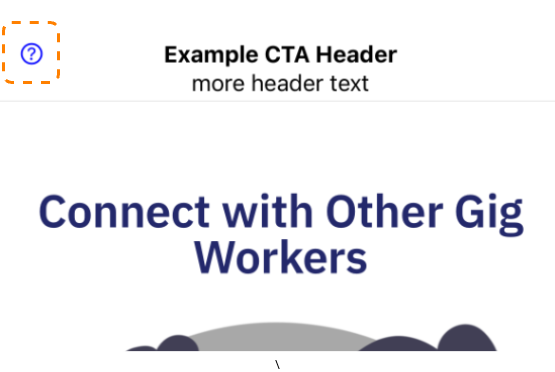
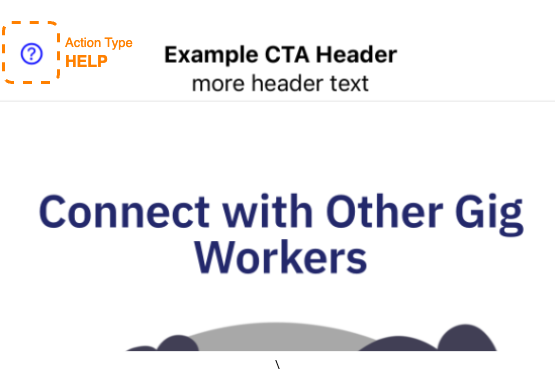
WIP

diff --git a/docs/campaigns/call_to_action/README.md b/docs/campaigns/call_to_action/README.md
@@ -40,16 +40,15 @@ defmodule DriversSeatCoop.Marketing.Campaigns.Examples do
 end
 ```
 
-Hosted assets (like html, css, images, fonts, js) should be placed within the `/priv/static/campaigns` folder and managed as part of source control.
+Hosted assets (like html, css, images, fonts, js) are placed within the `/priv/static/campaigns` folder and managed as part of source control.
 
-* **Asset names are case sensitive** and need to match the filename of the asset.  `example_cta/example.html` is NOT the same as `example_cta/Example.html` OR `example_CTA/example.html`
+* **Asset and folder names are case sensitive** and need to match the filename of the asset.  `example_cta/example.html` is NOT the same as `example_cta/Example.html` OR `example_CTA/example.html`
 <br/>
 
 * **Consider having a common campaign.css file** and add relative references to it from within the html files for each campaign.  That will make style changes a bit easier.
 <br/>
 
-* **Consider having a folder Structure Convention** such as `/priv/static/campaigns/<<CAMPAIGN_ID>>` for the assets for each campaign.  The CTA defined above would follow this folder structure.
-<br/>
+* **Consider having a folder structure convention** such as `/priv/static/campaigns/<<CAMPAIGN_ID>>/` for the assets for each campaign.  The CTA defined above would follow this folder structure.
 
   ```text
   .
@@ -58,19 +57,22 @@ Hosted assets (like html, css, images, fonts, js) should be placed within the `/
           └── campaigns
               ├── campaigns.css
               └── example_cta
-                  ├── example_cta.html
-                  ├── example_cta.css
-                  ├── example_cta_image1.png
-                  └── example_cta_image2.png
+                  ├── example.html
+                  ├── example.css
+                  ├── example_image1.png
+                  └── example_image2.png
   ```
 
-* **Browsing to campaign assets directly** Self-hosted assets are browseable.  During development for the example above, `http://localhost:4000/web/campaigns/example_cta.html` should present the content of the CTA.
+* **Browsing to campaign assets directly** Self-hosted assets are browseable.  During development for the example above, `http://localhost:4000/web/campaigns/example_cta/example.html` should present the content of the CTA.
 <br/>
+
 * **The [endpoint.ex](/lib/dsc_web/endpoint.ex) file** is respoinsible for mapping inbound url requests to static files.
 
 ### Externally Hosted Content
 
-CTA content may also be hosted elsewhere, which may be helpful if it is managed outside of this app, or if it is large, making it difficult to manage in source control.  To access externally hosted content, use fully qualified URLs for the resources.
+CTA content may also be hosted elsewhere, which may be helpful when the content is managed outside of the app, or if the assets are large and  difficult to manage in source control.  
+
+To access externally hosted content, use fully qualified URLs for the resources.
 
 ```elixir
 defmodule DriversSeatCoop.Marketing.Campaigns.Examples do
@@ -106,6 +108,9 @@ end
 
 ## Adding Header and Footer Text (Optional)
 
+| ![header](./images/header.png)  | ![header](./images/footer.png)    |
+|--                               |--                                 |
+
 ### Single Line
 
 ```elixir
@@ -129,6 +134,7 @@ cta
 ```
 
 ### Dynamic Content
+
 A function accepting a [CampaignState](/lib/dsc/marketing/campaign_state.ex) struct may also be used.  CampaignState provides access to information about the calling user, their device, and the calling user's interaction with this campaign.
 
 ```elixir
@@ -144,58 +150,93 @@ end)
 end)
 ```
 
-## Adding Campaign Actions
+## Adding Actions
 
-Campaign Actions define how a user will interact with the campaign.
+Campaign Actions define how a user can interact with the campaign.
 
-### Toolbar Help
+### Header Actions
 
-| ![close](./images/default_help.png)  |
-|----                                           |
+#### Help button
 
-
-### Toolbar Dismiss or Close
-There are two options for closing a campaign.
-| ![close](./images/default_close_dismiss.png)  |
-|----                                           |
-
-
-#### Close
-Closing the CTA closes the screen in the UI, but the campaign is still available for the user at a later date.  Closing a CTA is often used when the user navigates to the CTA, but it does not interrupt their workflow.  For example, a user may navigate to a CTA from a preview card on their landing page.  They would go back to their landing page by closing the CTA.
-
-
-#### Dismiss
-Dismissing the CTA is the equivalent to deleting it for the user, preventing them from seeing the campaign again. Dismissing a CTA is often used for interrupt campaigns which interrupt the user's workflow.
-
-
-* **Dismiss** - Prevents the campaign from being visible to the user again.
-* **Close** - Prevents the campaign from being visible to the user again.
+| ![help button](./images/default_help.png)     | ![help](./images/help.png)    |
+|----                                           |---                            |
 
 ```elixir
-    cta
-    |> CallToAction.with_action(CampaignAction.default_close_tool())
-
-    cta
-    |> CallToAction.with_action(CampaignAction.default_dismiss_tool())
-
-    cta
-    |> CallToAction.with_action(
-      CampaignAction.default_help_tool("Pre populate the help message with this text")
-    )
-
+CallToAction.with_action(cta,
+  CampaignAction.default_help_tool("Pre populate the help message with this text")
+)
 ```
 
+#### Close button
 
+| ![close](./images/default_close_dismiss_postpone.png)   |
+|----                                                     |
 
-### Actions Buttons
-### Action Links
+A CTA may be closed in the following ways
+
+##### Close
+
+Closing a CTA closes the screen in the UI, keeping the campaign available for access in the future.  This method is used when the user takes an action that opens the CTA. For example, a user may navigate to a CTA from a preview card on their landing page.
 
 ```elixir
-cta =
-  CallToAction.with_action(cta,
-    CampaignAction.new(:join, :accept, "Join our community!")
-    |> CampaignAction.
-  )
+CallToAction.with_action(cta, CampaignAction.default_close_tool())
+```
+
+##### Dismiss
+
+Dismissing a CTA closes the screen in the UI and is the equivalent to deleting it for the user, preventing any future access.  This method is often used in conjunction with the user's workflow being interrupted by the CTA.
+
+```elixir
+CallToAction.with_action(cta, CampaignAction.default_dismiss_tool())
+```
+
+##### Postpone
+
+Postponing a CTA closes the screen in the UI and prevents the CTA from interrupting the user's workflow for a period of time, by default 24 hours.  This method allows the user to focus their attention on something else when a CTA interrupts their workflow.
+
+```elixir
+CallToAction.with_action(cta, CampaignAction.default_postpone_tool())
+```
+
+### Action Buttons
+
+| ![action_buttons](./images/action_buttons.png)  |
+|----                                             |
+
+```elixir
+cta
+|> CallToAction.with_action(
+  CampaignAction.new(:join, :accept, "Join our community!")
+  |> CampaignAction.with_url("https://chat.whatsapp.com/XXXXXXXXXXXXXXXXXXXXXX")
+)
+```
+
+* This "Accepts" the campaign with accept_action `join`
+* Accept Actions close the CTA view
+* A URL is NOT required.  Because there is a FULLY-QUALIFIED URL, an in-app browser will open and navigate to the content.
+
+```elixir
+cta
+|> CallToAction.with_action(
+  CampaignAction.new(:invite, :accept, "Invite a friend!")
+  |> CampaignAction.with_url("/marketing/referral/generate/app_invite_menu")
+)
+```
+
+* This "Accepts" the campaign with accept_action `invite`
+* Accept Actions close the CTA view
+* A URL is NOT required.  Because there is a RELATIVE URL, it will navigate within the Angular app using its router.
+
+### Action Links
+
+| ![action_links](./images/action_links.png)  |
+|----                                         |
+
+```elixir
+CallToAction.with_action(cta,
+  CampaignAction.new(:join, :accept, "Join our community!")
+  |> CampaignAction.
+)
 ```
 
 ## Associate to Categories

diff --git a/docs/campaigns/campaign_actions/README.md b/docs/campaigns/campaign_actions/README.md
@@ -1,0 +1,26 @@
+# Campaign Actions
+
+Campaign Actions define how a user interacts with a campaign and what happens next.
+
+## Action Types
+
+### Accept
+Campaigns, especially those that interrupt a user's workflow, often present the user with a choice or an invitation.  Accepting a campaign indicates a user's assent.
+
+
+### Dismiss
+Dismissing a campaign essentially deletes it for the user.  When campaigns present a choice or an invitation to the user, dismissing it indicates their dissent.
+
+### Close
+For campaigns that do not interrupt the user's workflow, closing the campaign retu
+
+
+
+### Postpone (for time)
+For campaigns that interrupt the users's workflow, posponing the campaign allows the user to return
+### Help (title and subject)
+### Custom
+### Detail
+### Logout
+
+
